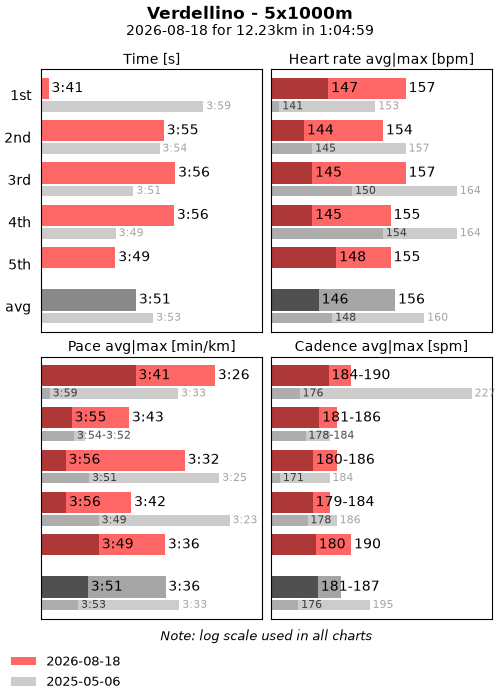
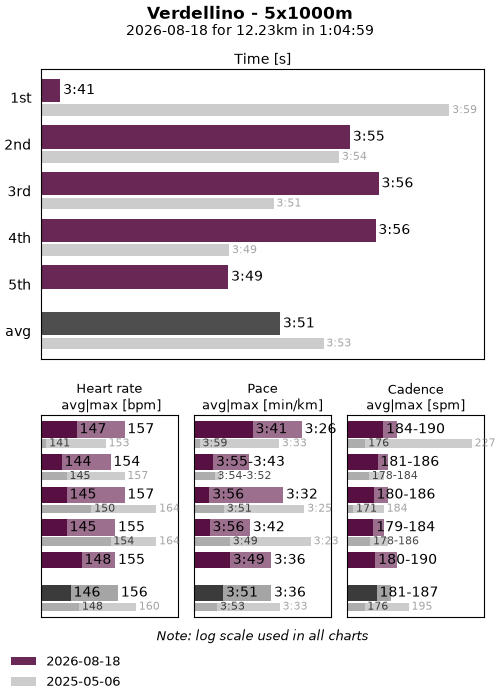
feat(sport-analysis): new plot layout for san plot-interval-run

diff --git a/projects/sport-analysis/sport_analysis/plot/plot_interval_run_api/plot_interval_run_api_cmd.py b/projects/sport-analysis/sport_analysis/plot/plot_interval_run_api/plot_interval_run_api_cmd.py
@@ -209,9 +209,9 @@ class PlotIntervalRunApiCmd(base_api.MixinGarminRequestsApi, base_plot.MixinBarH
             xdata_times,
             self._bar_height_for_barh_mixin(0, self._n_bars_per_group),
             label=self._make_legend_label(0),
-            color=["red" for _ in range(len(ydata_range) - 1)]
+            color=[base_plot.COL_PLUM for _ in range(len(ydata_range) - 1)]
             + [base_plot.COL_DARK_GRAY],
-            alpha=0.6,
+            alpha=0.9,
         )
         # Add the main activity's time values at the right of each bar.
         a.bar_label(bar, fmt=self._fmt_time, padding=2)
@@ -227,7 +227,8 @@ class PlotIntervalRunApiCmd(base_api.MixinGarminRequestsApi, base_plot.MixinBarH
             xdata_times.append(avg)  # Add avg time.
 
             # Update the max time.
-            max_time = max(xdata_times) if max(xdata_times) > max_time else max_time
+            sec_max = max(xdata_times)
+            max_time = sec_max if sec_max > max_time else max_time
 
             # Plot secondary activities' times.
             bar = a.barh(
@@ -255,7 +256,7 @@ class PlotIntervalRunApiCmd(base_api.MixinGarminRequestsApi, base_plot.MixinBarH
         a.set_xscale("log")  # Add a base with arg: `base=2`.
         # Set the start and end scale for the x-axis, adding 2% width to make
         #  space for the bar labels.
-        a.set_xlim((0, max_time * 1.03))
+        a.set_xlim((0, max_time * 1.007))
         # Set the start and end scale for the y-axis, so the 2 plots are aligned.
         a.set_ylim((len(ydata_range) - 0.4, -0.6))
         # Remove ticks.
@@ -301,8 +302,8 @@ class PlotIntervalRunApiCmd(base_api.MixinGarminRequestsApi, base_plot.MixinBarH
             self._ydata_for_barh_mixin(ydata_range, 0, self._n_bars_per_group),
             xdata_pace_maxs,
             self._bar_height_for_barh_mixin(0, self._n_bars_per_group),
-            color=["red" for _ in range(len(ydata_range) - 1)] + ["dimgray"],
-            # color="tab:blue",
+            color=[base_plot.COL_PLUM for _ in range(len(ydata_range) - 1)]
+            + ["dimgray"],
             alpha=0.6,
         )
         # Add main activity's maxes pace values at the right of each bar.
@@ -313,9 +314,9 @@ class PlotIntervalRunApiCmd(base_api.MixinGarminRequestsApi, base_plot.MixinBarH
             self._ydata_for_barh_mixin(ydata_range, 0, self._n_bars_per_group),
             xdata_pace_avgs,
             self._bar_height_for_barh_mixin(0, self._n_bars_per_group),
-            color=[base_plot.COL_DARK_RED for _ in range(len(ydata_range) - 1)]
+            color=[base_plot.COL_PLUM for _ in range(len(ydata_range) - 1)]
             + [base_plot.COL_DARK_GRAY],
-            alpha=0.8,
+            # alpha=0.8,
         )
         # Add main activity's avgs pace values at the right of each bar.
         a.bar_label(bar, fmt=self._fmt_pace, padding=2)
@@ -371,7 +372,7 @@ class PlotIntervalRunApiCmd(base_api.MixinGarminRequestsApi, base_plot.MixinBarH
         ## Format.
         # Invert the y-axis so the 1st attempt is on top.
         a.invert_yaxis()
-        a.set_xlabel("Pace avg|max [min/km]")
+        a.set_xlabel("Pace\navg|max [min/km]", fontsize=9)
         # Set the x-axis label to the top.
         a.xaxis.set_label_position("top")
         # Use log scale to amplify the small differences.
@@ -429,8 +430,8 @@ class PlotIntervalRunApiCmd(base_api.MixinGarminRequestsApi, base_plot.MixinBarH
             self._ydata_for_barh_mixin(ydata_range, 0, self._n_bars_per_group),
             xdata_cadence_maxs,
             self._bar_height_for_barh_mixin(0, self._n_bars_per_group),
-            color=["red" for _ in range(len(ydata_range) - 1)] + ["dimgray"],
-            # color="tab:blue",
+            color=[base_plot.COL_PLUM for _ in range(len(ydata_range) - 1)]
+            + ["dimgray"],
             alpha=0.6,
         )
         # Add main activity's maxes cadence values at the right of each bar.
@@ -442,9 +443,9 @@ class PlotIntervalRunApiCmd(base_api.MixinGarminRequestsApi, base_plot.MixinBarH
             xdata_cadence_avgs,
             self._bar_height_for_barh_mixin(0, self._n_bars_per_group),
             # color="#084266",
-            color=[base_plot.COL_DARK_RED for _ in range(len(ydata_range) - 1)]
+            color=[base_plot.COL_PLUM for _ in range(len(ydata_range) - 1)]
             + [base_plot.COL_DARK_GRAY],
-            alpha=0.8,
+            # alpha=0.8,
         )
         # Add main activity's avgs cadence values at the right of each bar.
         a.bar_label(bar, fmt="{0:.0f}", padding=2)
@@ -506,7 +507,7 @@ class PlotIntervalRunApiCmd(base_api.MixinGarminRequestsApi, base_plot.MixinBarH
         ## Format.
         # Invert the y-axis so the 1st attempt is on top.
         a.invert_yaxis()
-        a.set_xlabel("Cadence avg|max [spm]")
+        a.set_xlabel("Cadence\navg|max [spm]", fontsize=9)
         # Set the x-axis label to the top.
         a.xaxis.set_label_position("top")
         # Use log scale to amplify the small differences.
@@ -558,8 +559,8 @@ class PlotIntervalRunApiCmd(base_api.MixinGarminRequestsApi, base_plot.MixinBarH
             self._ydata_for_barh_mixin(ydata_range, 0, self._n_bars_per_group),
             xdata_hr_maxs,
             self._bar_height_for_barh_mixin(0, self._n_bars_per_group),
-            color=["red" for _ in range(len(ydata_range) - 1)] + ["dimgray"],
-            # color="tab:blue",
+            color=[base_plot.COL_PLUM for _ in range(len(ydata_range) - 1)]
+            + ["dimgray"],
             alpha=0.6,
         )
         # Add main activity's maxes HR values at the right of each bar.
@@ -571,9 +572,9 @@ class PlotIntervalRunApiCmd(base_api.MixinGarminRequestsApi, base_plot.MixinBarH
             xdata_hr_avgs,
             self._bar_height_for_barh_mixin(0, self._n_bars_per_group),
             # color="#084266",
-            color=[base_plot.COL_DARK_RED for _ in range(len(ydata_range) - 1)]
+            color=[base_plot.COL_PLUM for _ in range(len(ydata_range) - 1)]
             + [base_plot.COL_DARK_GRAY],
-            alpha=0.8,
+            # alpha=0.8,
         )
         # Add main activity's avgs HR values at the right of each bar.
         a.bar_label(bar, fmt="{0:.0f}", padding=2)
@@ -631,7 +632,7 @@ class PlotIntervalRunApiCmd(base_api.MixinGarminRequestsApi, base_plot.MixinBarH
         ## Format.
         # Invert the y-axis so the 1st attempt is on top.
         a.invert_yaxis()
-        a.set_xlabel("Heart rate avg|max [bpm]")
+        a.set_xlabel("Heart rate\n avg|max [bpm]", fontsize=9)
         # Set the x-axis label to the top.
         a.xaxis.set_label_position("top")
         # Use log scale to amplify the small differences.
@@ -830,24 +831,28 @@ class PlotIntervalRunApiCmd(base_api.MixinGarminRequestsApi, base_plot.MixinBarH
         return width, height
 
     def _make_subplot_mosaic(self) -> tuple[Figure, dict[str, Axes]]:
+        figsize = self.figure_size or self._make_figure_size()
+        console.print(f":triangular_ruler: Figure size: {figsize}")
+
         # Docs for subplot_mosaic():
         #  https://matplotlib.org/stable/users/explain/axes/arranging_axes.html#variable-widths-or-heights-in-a-grid
         #  https://matplotlib.org/stable/api/_as_gen/matplotlib.pyplot.subplot_mosaic.html#matplotlib.pyplot.subplot_mosaic
         return plt.subplot_mosaic(
             # fmt: off
     [
-                # 2 rows, 2 col.
-                ["time", "hr"],
-                ["pace", "cadence"],
-                ["note", "note"],
+                # 3 rows, 3 col.
+                ["time", "time", "time"],
+                [".", ".", "."],
+                ["hr", "pace", "cadence"],
+                ["note", "note", "note"],
             ],
             # fmt: on
             gridspec_kw=dict(
                 # The relative sizes of the subplots.
-                width_ratios=[1, 1],
-                height_ratios=[1, 1, 0.05],
+                width_ratios=[1, 1, 1],
+                height_ratios=[1, 0.05, 0.7, 0.05],
             ),
-            figsize=self._make_figure_size(),
+            figsize=figsize,
             layout="constrained",
         )
 

diff --git a/projects/sport-analysis/sport_analysis/plot/plot_run_api/plot_simple_run_api_cmd.py b/projects/sport-analysis/sport_analysis/plot/plot_run_api/plot_simple_run_api_cmd.py
@@ -189,7 +189,7 @@ class PlotSimpleRunApiCmd(ABC, base_api.MixinGarminRequestsApi, base_plot.MixinH
             ydata_pace_df["MA(pace)"],
             label=self._make_legend_label(0),
             # color="red",
-            color=base_plot.COL_PACE_MAIN,
+            color=base_plot.COL_PLUM,
             alpha=0.6,
             linewidth=3.0,
         )
@@ -274,7 +274,7 @@ class PlotSimpleRunApiCmd(ABC, base_api.MixinGarminRequestsApi, base_plot.MixinH
         _pace_base10_avg = speed_utils.mps_to_minpkm_base10(_speed_avg)
         a.axhline(
             y=_pace_base10_avg,
-            color=base_plot.COL_PACE_MAIN,
+            color=base_plot.COL_PLUM,
             alpha=0.5,
             linestyle=":",
         )
@@ -284,7 +284,7 @@ class PlotSimpleRunApiCmd(ABC, base_api.MixinGarminRequestsApi, base_plot.MixinH
             (a.get_xlim()[0], _pace_base10_avg),
             xytext=(0.1, 0.2),
             textcoords="offset fontsize",
-            color=base_plot.COL_PACE_MAIN,
+            color=base_plot.COL_PLUM,
             fontsize=8,
             fontweight="bold",
         )
@@ -504,6 +504,9 @@ class PlotSimpleRunApiCmd(ABC, base_api.MixinGarminRequestsApi, base_plot.MixinH
         return 5, height
 
     def _make_subplot_mosaic(self) -> tuple[Figure, dict[str, Axes]]:
+        figsize = self.figure_size or self._make_figure_size()
+        console.print(f":triangular_ruler: Figure size: {figsize}")
+
         # Docs for subplot_mosaic():
         #  https://matplotlib.org/stable/users/explain/axes/arranging_axes.html#variable-widths-or-heights-in-a-grid
         #  https://matplotlib.org/stable/api/_as_gen/matplotlib.pyplot.subplot_mosaic.html#matplotlib.pyplot.subplot_mosaic
@@ -521,7 +524,7 @@ class PlotSimpleRunApiCmd(ABC, base_api.MixinGarminRequestsApi, base_plot.MixinH
                 width_ratios=[1],
                 height_ratios=[1.5, 0.22, 1],
             ),
-            figsize=self.figure_size or self._make_figure_size(),
+            figsize=figsize,
             layout="constrained",
         )
 

diff --git a/projects/sport-analysis/sport_analysis/plot/plot_ride_api/plot_simple_ride_api_cmd.py b/projects/sport-analysis/sport_analysis/plot/plot_ride_api/plot_simple_ride_api_cmd.py
@@ -11,9 +11,12 @@ from garmin_connect_client.garmin_connect_token_managers import (
 from matplotlib.axes import Axes
 from matplotlib.figure import Figure
 
+from ...base_cli_view import ConsoleAdapter
 from ...conf import settings
 from .. import base_api, base_plot
 from ..base_plot import PERCENTILE_TO_DRAW_ENUM, _make_subtitle, _make_title
+
+console = ConsoleAdapter()
 
 
 @dataclass
@@ -191,6 +194,9 @@ class PlotSimpleRideApiCmd(base_api.MixinGarminRequestsApi, base_plot.MixinHrPlo
         return 5, height
 
     def _make_subplot_mosaic(self) -> tuple[Figure, dict[str, Axes]]:
+        figsize = self.figure_size or self._make_figure_size()
+        console.print(f":triangular_ruler: Figure size: {figsize}")
+
         # Docs for subplot_mosaic():
         #  https://matplotlib.org/stable/users/explain/axes/arranging_axes.html#variable-widths-or-heights-in-a-grid
         #  https://matplotlib.org/stable/api/_as_gen/matplotlib.pyplot.subplot_mosaic.html#matplotlib.pyplot.subplot_mosaic
@@ -207,6 +213,6 @@ class PlotSimpleRideApiCmd(base_api.MixinGarminRequestsApi, base_plot.MixinHrPlo
                 width_ratios=[1],
                 height_ratios=[5, 1],
             ),
-            figsize=self.figure_size or self._make_figure_size(),
+            figsize=figsize,
             layout="constrained",
         )

diff --git a/projects/sport-analysis/sport_analysis/plot/plot_ride_api/plot_climb_ride_api_cmd.py b/projects/sport-analysis/sport_analysis/plot/plot_ride_api/plot_climb_ride_api_cmd.py
@@ -376,6 +376,9 @@ class PlotClimbRideApiCmd(base_api.MixinGarminRequestsApi, base_plot.MixinHrPlot
         return 5, height
 
     def _make_subplot_mosaic(self) -> tuple[Figure, dict[str, Axes]]:
+        figsize = self.figure_size or self._make_figure_size()
+        console.print(f":triangular_ruler: Figure size: {figsize}")
+
         # Docs for subplot_mosaic():
         #  https://matplotlib.org/stable/users/explain/axes/arranging_axes.html#variable-widths-or-heights-in-a-grid
         #  https://matplotlib.org/stable/api/_as_gen/matplotlib.pyplot.subplot_mosaic.html#matplotlib.pyplot.subplot_mosaic
@@ -393,7 +396,7 @@ class PlotClimbRideApiCmd(base_api.MixinGarminRequestsApi, base_plot.MixinHrPlot
                 width_ratios=[1],
                 height_ratios=[1.5, 1, 1 / 5],
             ),
-            figsize=self.figure_size or self._make_figure_size(),
+            figsize=figsize,
             layout="constrained",
         )
 

diff --git a/projects/sport-analysis/tests/plot/plot_interval_run_api/test_plot_interval_run_api.py b/projects/sport-analysis/tests/plot/plot_interval_run_api/test_plot_interval_run_api.py
@@ -88,6 +88,7 @@ class TestPlotIntervalRunApi:
             garmin_activity_id,
             distance=100,
             n_expected_intervals=[7],
+            figure_size=(5, 6),
             garmin_connect_token_manager=self.garmin_token_mgr,
         )
         p.plot(save_to_png_file_path=FILE_TESTED_PATH.replace(".py", "-100m.png"))
@@ -97,6 +98,7 @@ class TestPlotIntervalRunApi:
         p = PlotIntervalRunApiCmd(
             garmin_activity_id,
             distance=200,
+            figure_size=(5, 7),
             garmin_connect_token_manager=self.garmin_token_mgr,
         )
         p.plot(save_to_png_file_path=FILE_TESTED_PATH.replace(".py", "-200m.png"))

diff --git a/projects/sport-analysis/sport_analysis/plot/base_plot.py b/projects/sport-analysis/sport_analysis/plot/base_plot.py
@@ -20,8 +20,8 @@ from ..conf import settings
 
 console = ConsoleAdapter()
 
-COL_HR_MAIN = "red"
-COL_PACE_MAIN = "#580F41"  # Plum.
+COL_RED = "red"
+COL_PLUM = "#580F41"
 
 COL_DARK_RED = "#9A2D2D"
 COL_DARK_GRAY = "#3B3B3B"
@@ -299,7 +299,7 @@ class MixinHrPlot(BasePlot):
             hr_stream,
             bins=_n_bins,
             weights=1 / len(hr_stream) * np.ones(len(hr_stream)),
-            color=COL_HR_MAIN,
+            color=COL_RED,
             alpha=0.6,
         )
 

diff --git a/projects/sport-analysis/TODO.md b/projects/sport-analysis/TODO.md
@@ -1,9 +1,5 @@
 
 
-- 1 chart largo sopra con i tempi, per interval run
-  3 sotto piccoli
-  non rosso, ma violetto
-
 - replace get_string_from_env() e override_settings in settings_module.py con settings_utils lib
 - activity_id: strava-* or garmin-* (oppure --stravaid=123)
   usala in search-matching-strava-activity, rename to search-matching-activity
